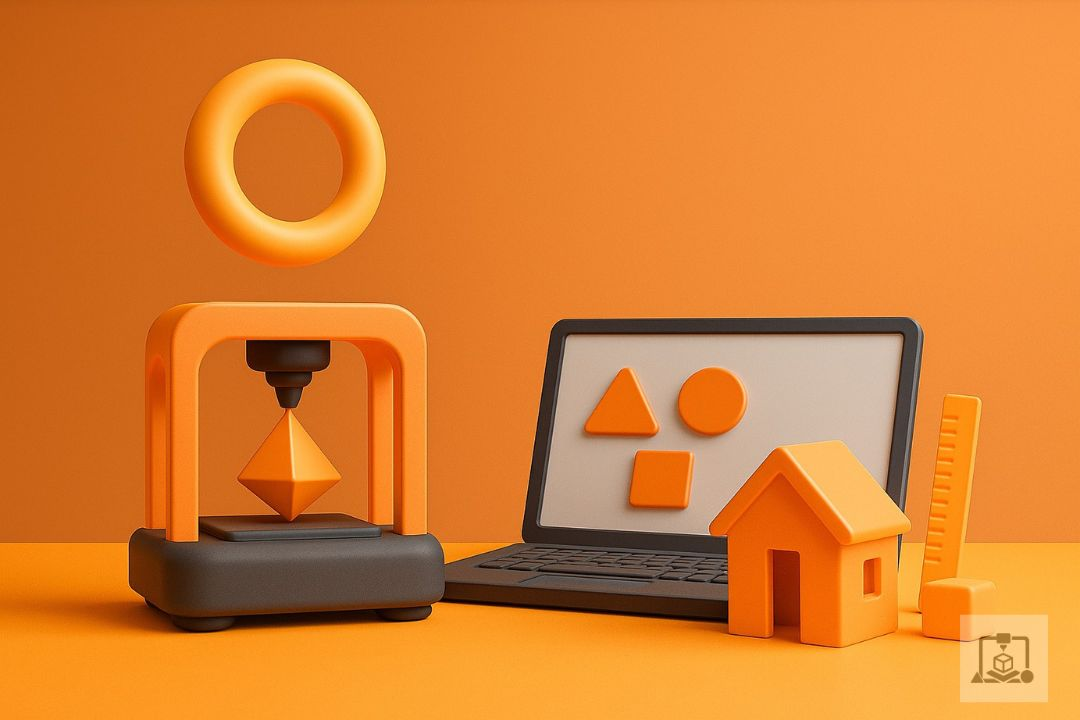
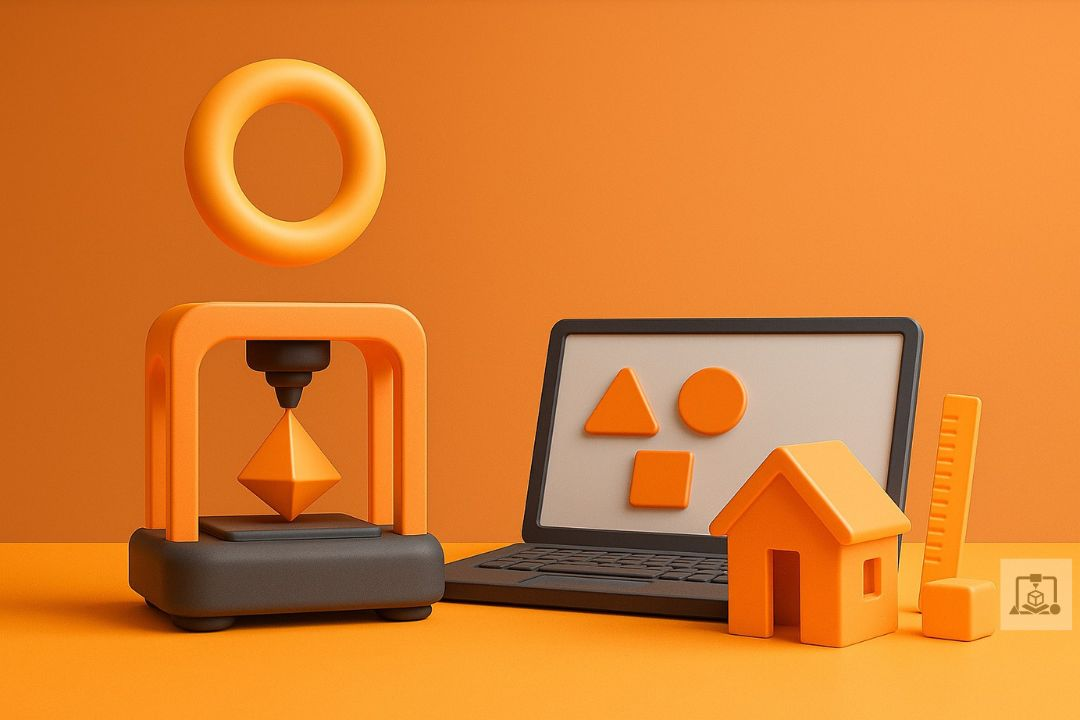
Mejorado

Changed region(s): [[0.8861, 0.7639, 1.0, 0.9778]]

diff --git a/PrintHub/src/css/formstyle.css b/PrintHub/src/css/formstyle.css
@@ -254,7 +254,47 @@ form textarea {
 }
 
 .checkbox-container a {
+  color: #007BFF;.form-container {
+  display: flex;
+  justify-content: center;
+  align-items: center;
+  padding: 0 20px;
+  min-height: 100vh;
+  background: linear-gradient(135deg, #FF6B00, #007BFF);
+}
+
+.contact-section {
+  background: #fff;
+  border-radius: 20px;
+  padding: 40px 50px;
+  box-shadow: 0 8px 25px rgba(0, 0, 0, 0.1);
+  max-width: 700px;
+  width: 100%;
+  animation: fadeInUp 0.8s ease;
+}
+
+.contact-section h1 {
+  text-align: center;
+  font-family: 'Chakra Petch', sans-serif;
+  font-size: 2.4rem;
+  margin-bottom: 10px;
   color: #007BFF;
+  text-transform: uppercase;
+}
+
+.contact-section .subtitle {
+  text-align: center;
+  color: #555;
+  margin-bottom: 2rem;
+  font-size: 1rem;
+}
+
+/* ================================ CAMPOS ================================ */
+form {
+  display: flex;
+  flex-direction: column;
+}
+
   text-decoration: none;
 }
 
@@ -300,14 +340,15 @@ form .btn:hover {
 }
 
 /* ================================ FOOTER ================================ */
-.footer {
+.pie-pagina {
   background: #e8eff5;
   padding: 40px 20px;
   border-top: 1px solid #d0dbe8;
+  font-family: 'Inter', sans-serif;
   color: #333;
 }
 
-.footer-container {
+.pie-pagina-contenedor {
   display: grid;
   grid-template-columns: 1fr 1fr 1fr;
   gap: 40px;
@@ -315,63 +356,72 @@ form .btn:hover {
   text-align: center;
 }
 
-.footer-left img {
+.pie-pagina-izquierda img {
   width: 140px;
   margin-bottom: 15px;
 }
 
-.social-icons img,
-.youtube-icons img {
+.iconos-sociales img,
+.iconos-youtube img {
   margin: 0 8px;
   transition: transform 0.3s;
 }
 
-.social-icons img {
+.iconos-sociales img {
   width: 28px;
   height: 28px;
 }
 
-.youtube-icons img {
+.iconos-youtube img {
   width: 39px;
   height: 28px;
 }
 
-.social-icons img:hover,
-.youtube-icons img:hover {
+.iconos-sociales img:hover,
+.iconos-youtube img:hover {
   transform: scale(1.2);
 }
 
-.footer-center img {
+.pie-pagina-centro img {
   max-width: 320px;
 }
 
-.footer-right {
+.pie-pagina-derecha {
   text-align: left;
 }
 
-.footer-right h3 {
+.pie-pagina-derecha h3 {
   font-size: 18px;
   margin-bottom: 10px;
   color: #FF6B00;
 }
 
-.footer-right ul {
+.pie-pagina-derecha ul {
   list-style: none;
   padding: 0;
 }
 
-.footer-right li {
+.pie-pagina-derecha li {
   margin-bottom: 8px;
   font-size: 14px;
 }
 
-.footer-right a {
+.pie-pagina-derecha a {
   color: #333;
   text-decoration: none;
 }
 
-.footer-right a:hover {
+.pie-pagina-derecha a:hover {
   color: #007BFF;
+}
+
+.logo {
+  margin-top: 10px;
+  font-size: 2.5rem;
+  color: #000000;
+  font-family: 'Chakra Petch', sans-serif;
+  font-weight: 700;
+  text-transform: uppercase;
 }
 
 /* ================================ ANIMACIONES ================================ */

diff --git a/PrintHub/php/contact.php b/PrintHub/php/contact.php
@@ -43,7 +43,7 @@ if ($_SERVER["REQUEST_METHOD"] === "POST") {
     <div class="barra-lateral-cabecera">
       <h1 class="logo-texto">Print<span class="resaltado">Hub</span></h1>
       <div class="logo">
-        <img src="public/logoPrintHub.jpeg" alt="Logo de PrintHub" />
+        <img src="../public/logoPrintHub.jpeg" alt="Logo de PrintHub" />
       </div>
     </div>
 
@@ -121,44 +121,48 @@ if ($_SERVER["REQUEST_METHOD"] === "POST") {
     </section>
   </main>
 
-  <footer class="footer">
-    <div class="footer-container">
-      <div class="footer-left">
-        <h2 class="logo">Print<span class="highlight">Hub</span></h2><br>
-        <div>
-          <a class="social-icons" href="#"><img src="/public/facebook.jpg" alt="Facebook"></a>
-          <a class="social-icons" href="#"><img src="/public/linkedIn.png" alt="LinkedIn"></a>
-          <a class="youtube-icons" href="#"><img src="/public/youtube.png" alt="YouTube"></a>
-          <a class="social-icons" href="#"><img src="/public/insta.jpg" alt="Instagram"></a>
+  <footer class="pie-pagina">
+      <div class="pie-pagina-contenedor">
+        
+        <div class="pie-pagina-izquierda">
+          <h2 class="logo">
+            Print<span class="resaltado">Hub</span>
+          </h2>
+          <br>
+          <div>
+            <a class="iconos-sociales" href="#"><img src="../public/facebook.jpg" alt="Facebook"></a>
+            <a class="iconos-sociales" href="#"><img src="../public/linkedIn.png" alt="LinkedIn"></a>
+            <a class="iconos-youtube" href="#"><img src="../public/youtube.png" alt="YouTube"></a>
+            <a class="iconos-sociales" href="#"><img src="../public/insta.jpg" alt="Instagram"></a>
+          </div>
+        </div>
+  
+        <div class="pie-pagina-centro">
+          <img src="../public/fotterImage.jpg" alt="Imagen global 3D">
+        </div>
+  
+        <div class="pie-pagina-derecha">
+          <div class="servicios">
+            <h3>Servicios y productos</h3>
+            <ul>
+              <li><a href="#">Fabricación aditiva 3D</a></li>
+              <li><a href="#">Servicio de Impresión 3D</a></li>
+              <li><a href="#">Prototipado 3D</a></li>
+              <li><a href="#">Ingeniería y diseño</a></li>
+            </ul>
+          </div>
+          <div class="contacto">
+            <h3>Contacto</h3>
+            <ul>
+              <li>📞 (+34) 951 753 852</li>
+              <li>📧 <a href="mailto:printhub@contact.me">printhub@contact.me</a></li>
+              <li>📍 Partida Cotes Altes, 27, 03804 Alcoi, Alicante</li>
+              <li>🕒 Lunes – Viernes: 8:00 – 13:30</li>
+            </ul>
+          </div>
         </div>
       </div>
-
-      <div class="footer-center">
-        <img src="/public/fotterImage.png" alt="Imagen global 3D">
-      </div>
-
-      <div class="footer-right">
-        <div class="services">
-          <h3>Servicios y productos</h3>
-          <ul>
-            <li><a href="#">Fabricación aditiva 3D</a></li>
-            <li><a href="#">Servicio de Impresión 3D</a></li>
-            <li><a href="#">Prototipado 3D</a></li>
-            <li><a href="#">Ingeniería y diseño</a></li>
-          </ul>
-        </div>
-        <div class="contact">
-          <h3>Contacto</h3>
-          <ul>
-            <li>📞 (+34) 951 753 852</li>
-            <li>📧 <a href="mailto:printhub@contact.me">printhub@contact.me</a></li>
-            <li>📍 Partida Cotes Altes, 27, 03804 Alcoi, Alicante</li>
-            <li>🕒 Lunes – Viernes: 8:00 – 13:30</li>
-          </ul>
-        </div>
-      </div>
-    </div>
-  </footer>
+    </footer>
 
   <script>
   // Selección de elementos
